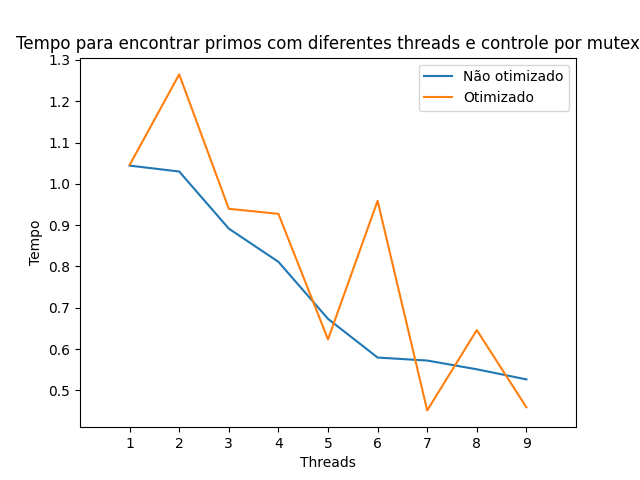
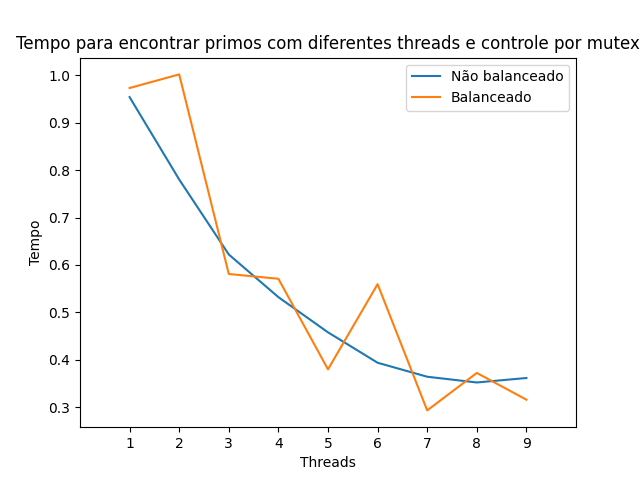
Preenchendo readme

diff --git a/plot.py b/plot.py
@@ -24,8 +24,8 @@ def plot_data(data1, data2):
     plt.ylabel('Tempo')
     plt.xticks(range(1, len(data1)+1))  # Define os ticks do eixo x como números inteiros de 1 até o tamanho dos dados
     plt.xlim(0, len(data1)+1)  # Define os limites do eixo x de 1 até o tamanho dos dados
-    plt.plot(range(1, len(data1)+1), data1, label="Não otimizado")  # Plota os dados
-    plt.plot(range(1, len(data2)+1), data2, label="Otimizado")  # Plota os dados
+    plt.plot(range(1, len(data1)+1), data1, label="Não balanceado")  # Plota os dados
+    plt.plot(range(1, len(data2)+1), data2, label="Balanceado")  # Plota os dados
     plt.legend()  # Adiciona a legenda ao gráfico
     
     # Verifica se a pasta 'fig' existe. Se não, cria a pasta.

diff --git a/README.md b/README.md
@@ -1,1 +1,17 @@
-# Exercicio2CE
+# Prática Mecanismos de Controle
+
+## Alunos
+- Iago Dutra
+- Luís Bueno
+- Rodrigo Kalil
+
+## Instruções
+### Encontrar os primos
+- Para compilar o código execute no terminal o comando "g++ main.cpp read.cpp -o main" e depois execute o arquivo gerado com o comando "./main".
+
+### Plotar o gráfico de tempo
+- Para plotar o gráfico de tempo, basta executar o arquivo `plot.py` no terminal, o comando `python plot.py`.
+
+## Relatório
+O relatório discutindo os resultados está disponível no arquivo `report.pdf` na raiz do repositório.
+ 
